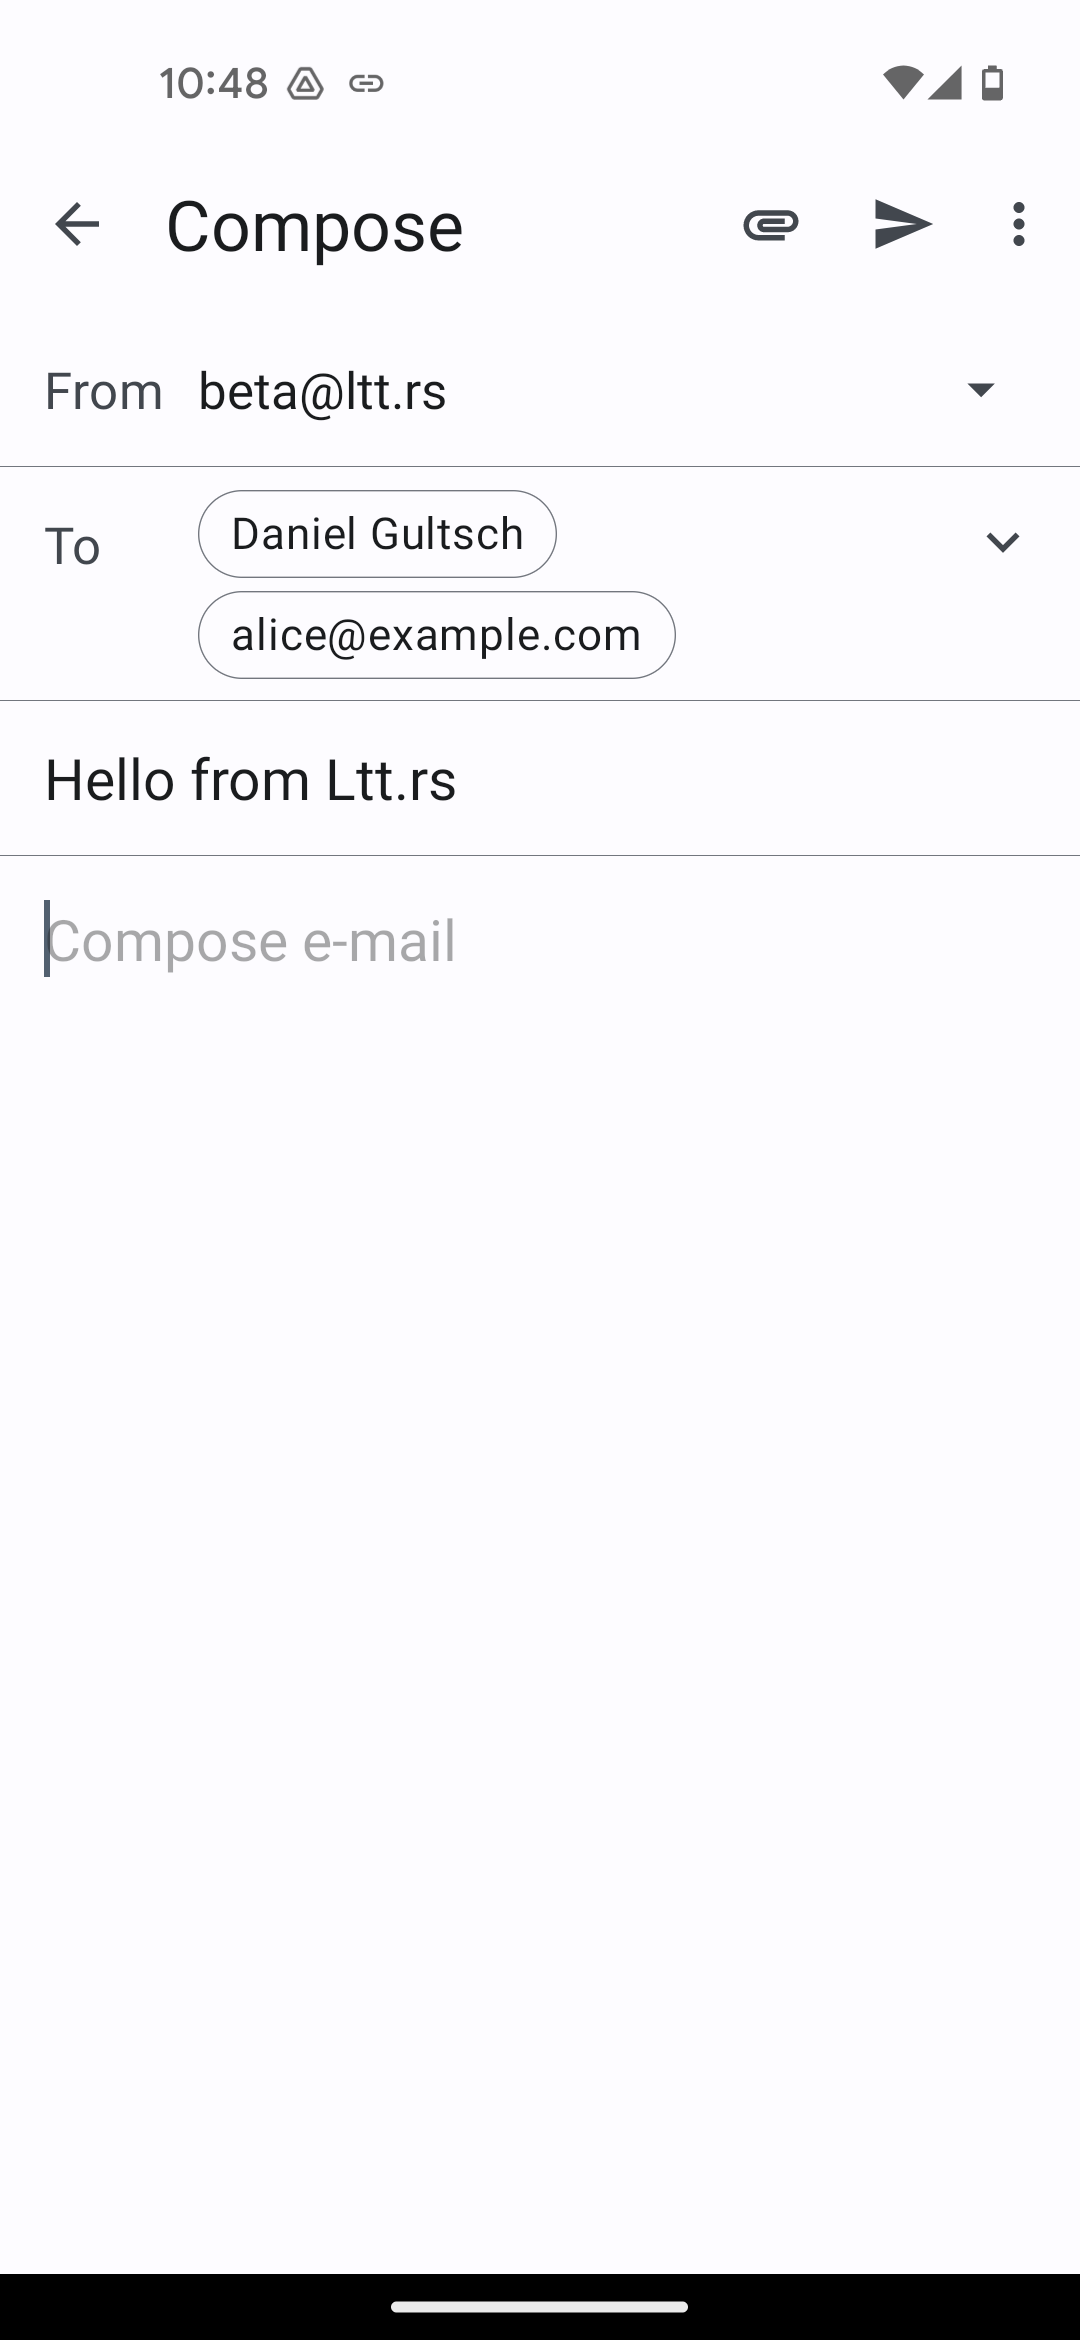
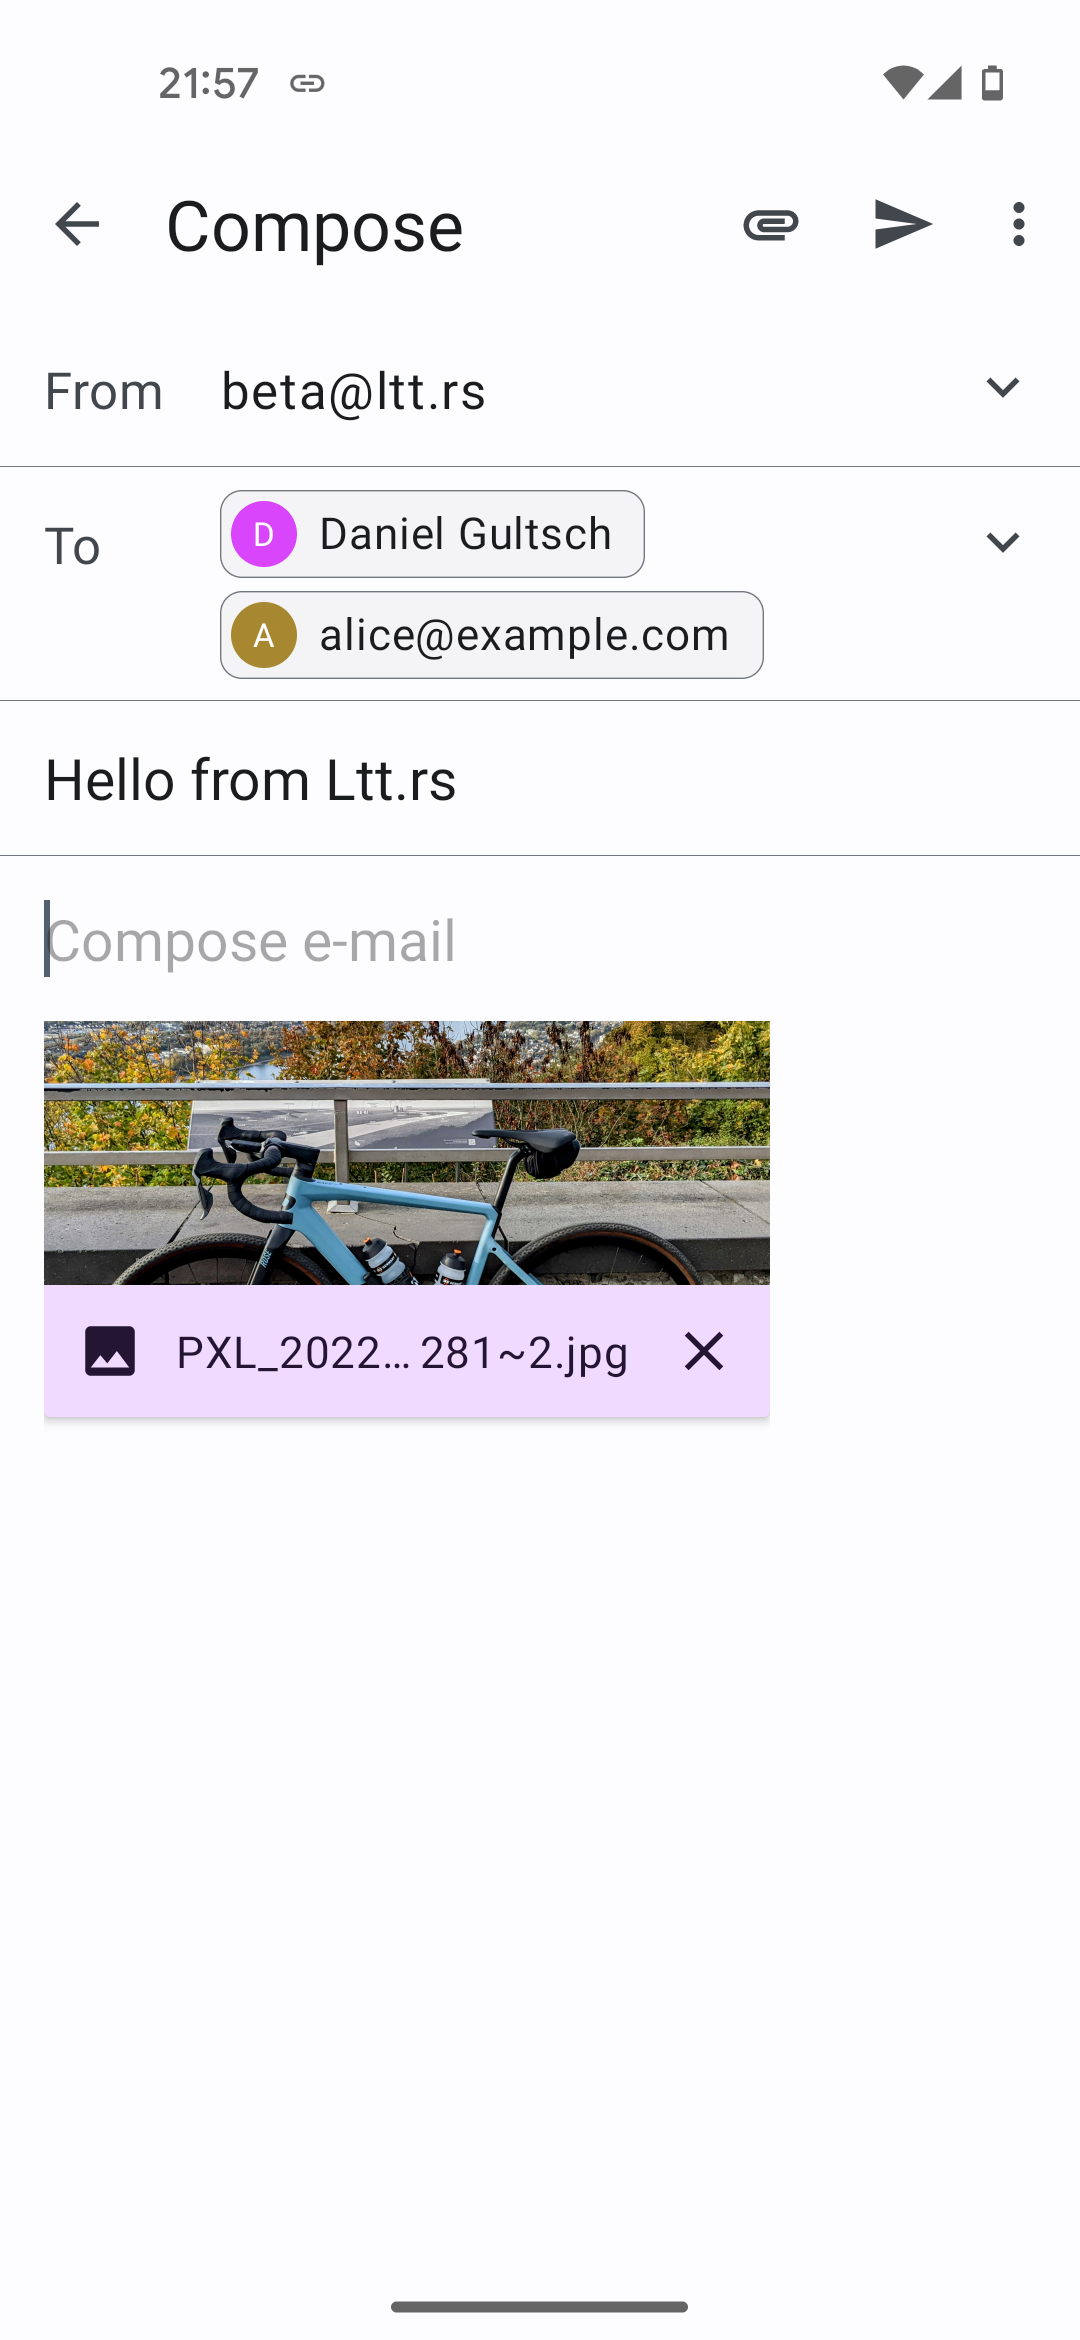
modernize compose activity

diff --git a/app/src/main/java/rs/ltt/android/ui/AvatarDrawable.java b/app/src/main/java/rs/ltt/android/ui/AvatarDrawable.java
@@ -30,6 +30,7 @@ import java.util.regex.Pattern;
 import rs.ltt.android.R;
 import rs.ltt.android.entity.From;
 import rs.ltt.android.util.ConsistentColorGeneration;
+import rs.ltt.jmap.common.entity.EmailAddress;
 
 public class AvatarDrawable extends ColorDrawable {
 
@@ -42,16 +43,9 @@ public class AvatarDrawable extends ColorDrawable {
     private final int intrinsicHeight;
     private final int intrinsicWidth;
 
-    public AvatarDrawable(final Context context, final From from) {
+    private AvatarDrawable(final Context context, final String email, final String name) {
         this.context = context;
-        final String name;
-        if (from instanceof From.Named) {
-            name = ((From.Named) from).getName();
-            this.key = ((From.Named) from).getEmail();
-        } else {
-            name = null;
-            this.key = null;
-        }
+        this.key = email;
         final Matcher matcher = LETTER_PATTERN.matcher(Strings.nullToEmpty(name));
         this.letter = matcher.find() ? matcher.group().toUpperCase(Locale.ROOT) : null;
         final int avatarDrawableSize =
@@ -83,23 +77,23 @@ public class AvatarDrawable extends ColorDrawable {
 
     @Override
     public void draw(final Canvas canvas) {
+        final Rect bounds = getBounds();
         final Paint textPaint = getTextPaint(context);
-        final float midX = getBounds().width() / 2.0f;
-        final float midY = getBounds().height() / 2.0f;
+        final float midX = bounds.width() / 2.0f;
+        final float midY = bounds.height() / 2.0f;
         final float radius = Math.min(getBounds().width(), getBounds().height()) / 2.0f;
         textPaint.setTextSize(radius);
-        final Rect r = new Rect();
-        canvas.getClipBounds(r);
-        final int cHeight = r.height();
-        final int cWidth = r.width();
+        final int cHeight = bounds.height();
+        final int cWidth = bounds.width();
         canvas.drawCircle(midX, midY, radius, getPaint(this.context, this.key));
         if (letter == null) {
             return;
         }
         textPaint.setTextAlign(Paint.Align.LEFT);
-        textPaint.getTextBounds(letter, 0, letter.length(), r);
-        float x = cWidth / 2f - r.width() / 2f - r.left;
-        float y = cHeight / 2f + r.height() / 2f - r.bottom;
+        final Rect textBounds = new Rect();
+        textPaint.getTextBounds(letter, 0, letter.length(), textBounds);
+        float x = cWidth / 2f - textBounds.width() / 2f - textBounds.left;
+        float y = cHeight / 2f + textBounds.height() / 2f - textBounds.bottom;
         canvas.drawText(letter, x, y, textPaint);
     }
 
@@ -121,5 +115,23 @@ public class AvatarDrawable extends ColorDrawable {
         this.setBounds(0, 0, canvas.getWidth(), canvas.getHeight());
         this.draw(canvas);
         return bitmap;
+    }
+
+    public static AvatarDrawable of(final Context context, final From from) {
+        if (from instanceof From.Named named) {
+            return new AvatarDrawable(context, named.getEmail(), named.getName());
+        } else {
+            return new AvatarDrawable(context, null, null);
+        }
+    }
+
+    public static AvatarDrawable of(final Context context, final EmailAddress emailAddress) {
+        final String name;
+        if (Strings.isNullOrEmpty(emailAddress.getName())) {
+            name = emailAddress.getEmail();
+        } else {
+            name = emailAddress.getName();
+        }
+        return new AvatarDrawable(context, emailAddress.getEmail(), name);
     }
 }

diff --git a/app/src/main/java/rs/ltt/android/ui/BindingAdapters.java b/app/src/main/java/rs/ltt/android/ui/BindingAdapters.java
@@ -27,17 +27,16 @@ import android.text.style.ImageSpan;
 import android.text.style.StyleSpan;
 import android.view.KeyEvent;
 import android.view.View;
-import android.widget.ArrayAdapter;
 import android.widget.CompoundButton;
 import android.widget.ImageView;
 import android.widget.TextView;
 import androidx.annotation.DrawableRes;
 import androidx.annotation.NonNull;
-import androidx.appcompat.widget.AppCompatSpinner;
 import androidx.core.widget.ImageViewCompat;
 import androidx.databinding.BindingAdapter;
 import androidx.lifecycle.LiveData;
 import com.google.android.material.color.MaterialColors;
+import com.google.android.material.textfield.MaterialAutoCompleteTextView;
 import com.google.android.material.textfield.TextInputEditText;
 import com.google.android.material.textfield.TextInputLayout;
 import com.google.common.base.Strings;
@@ -168,7 +167,7 @@ public class BindingAdapters {
             imageView.setImageResource(R.drawable.ic_selected_24dp);
             return;
         }
-        imageView.setImageDrawable(new AvatarDrawable(imageView.getContext(), from));
+        imageView.setImageDrawable(AvatarDrawable.of(imageView.getContext(), from));
     }
 
     @BindingAdapter("android:text")
@@ -421,7 +420,8 @@ public class BindingAdapters {
 
     @BindingAdapter("identities")
     public static void setIdentities(
-            final AppCompatSpinner spinner, final List<IdentityWithNameAndEmail> identities) {
+            final MaterialAutoCompleteTextView spinner,
+            final List<IdentityWithNameAndEmail> identities) {
         final List<String> representations;
         if (identities == null) {
             representations = Collections.emptyList();
@@ -431,13 +431,7 @@ public class BindingAdapters {
                             identities,
                             input -> EmailAddressUtil.toString(input.getEmailAddress()));
         }
-        final ArrayAdapter<String> adapter =
-                new ArrayAdapter<>(
-                        spinner.getContext(),
-                        android.R.layout.simple_spinner_item,
-                        representations);
-        adapter.setDropDownViewResource(R.layout.item_simple_spinner_dropdown);
-        spinner.setAdapter(adapter);
+        spinner.setSimpleItems(representations.toArray(new String[0]));
     }
 
     @BindingAdapter("android:src")

diff --git a/app/src/main/java/rs/ltt/android/ui/activity/ComposeActivity.java b/app/src/main/java/rs/ltt/android/ui/activity/ComposeActivity.java
@@ -59,11 +59,13 @@ import rs.ltt.android.ui.model.ComposeViewModel;
 import rs.ltt.android.ui.model.ComposeViewModel.EncryptionOptions;
 import rs.ltt.android.ui.model.ComposeViewModel.UserEncryptionChoice;
 import rs.ltt.android.ui.preview.AttachmentPreview;
+import rs.ltt.android.util.CharSequences;
 import rs.ltt.android.util.Event;
 import rs.ltt.android.util.MediaTypes;
 import rs.ltt.android.util.ToolTips;
 import rs.ltt.autocrypt.client.Decision;
 import rs.ltt.jmap.common.entity.Attachment;
+import rs.ltt.jmap.mua.util.EmailAddressUtil;
 import rs.ltt.jmap.mua.util.MailToUri;
 
 // TODO handle save instance state
@@ -160,6 +162,26 @@ public class ComposeActivity extends AppCompatActivity {
 
         binding.setComposeViewModel(composeViewModel);
         binding.setLifecycleOwner(this);
+
+        composeViewModel
+                .getIdentities()
+                .observe(
+                        this,
+                        identities -> {
+                            final var position = composeViewModel.getSelectedIdentityPosition();
+                            if (identities == null
+                                    || position == null
+                                    || position > identities.size()) {
+                                binding.from.setText(CharSequences.EMPTY_STRING);
+                            } else {
+                                binding.from.setText(
+                                        EmailAddressUtil.toString(
+                                                identities.get(position).getEmailAddress()));
+                            }
+                        });
+        binding.from.setOnItemClickListener(
+                (parent, view, position, id) ->
+                        composeViewModel.setSelectedIdentityPosition(position));
 
         binding.to.addTextChangedListener(new ChipTextWatcher(binding.to));
         binding.to.setOnFocusChangeListener(this::focusOnRecipientFieldChanged);

diff --git a/app/src/main/java/rs/ltt/android/ui/model/ComposeViewModel.java b/app/src/main/java/rs/ltt/android/ui/model/ComposeViewModel.java
@@ -91,7 +91,7 @@ public class ComposeViewModel extends AbstractAttachmentViewModel {
                                 }
                             });
 
-    private final MutableLiveData<Integer> selectedIdentityPosition = new MutableLiveData<>();
+    private final MutableLiveData<Integer> selectedIdentityPosition = new MutableLiveData<>(0);
     private final MutableLiveData<Boolean> extendedAddresses = new MutableLiveData<>();
     private final MutableLiveData<String> to = new MutableLiveData<>();
     private final MutableLiveData<String> cc = new MutableLiveData<>();
@@ -244,8 +244,8 @@ public class ComposeViewModel extends AbstractAttachmentViewModel {
         return this.identities;
     }
 
-    public MutableLiveData<Integer> getSelectedIdentityPosition() {
-        return this.selectedIdentityPosition;
+    public Integer getSelectedIdentityPosition() {
+        return this.selectedIdentityPosition.getValue();
     }
 
     public LiveData<EncryptionOptions> getEncryptionOptions() {
@@ -632,6 +632,10 @@ public class ComposeViewModel extends AbstractAttachmentViewModel {
         final EmailWithReferences email = getEmail();
         final String emailId = email == null ? null : email.getId();
         open(emailId, attachment);
+    }
+
+    public void setSelectedIdentityPosition(int position) {
+        this.selectedIdentityPosition.postValue(position);
     }
 
     public static class Parameter {

diff --git a/app/src/main/java/rs/ltt/android/ui/ChipDrawableSpan.java b/app/src/main/java/rs/ltt/android/ui/ChipDrawableSpan.java
@@ -67,12 +67,18 @@ public class ChipDrawableSpan extends ImageSpan implements NoCopySpan {
             if (EmailAddressUtil.isValid(token.getEmailAddress())) {
                 chip.setChipBackgroundColor(
                         getBackgroundColor(
-                                context, com.google.android.material.R.attr.colorSurface));
+                                context,
+                                com.google.android.material.R.attr.colorSurfaceContainerLow));
             } else {
                 chip.setChipBackgroundColor(
-                        getBackgroundColor(context, R.attr.colorSurfaceWarning));
+                        MaterialColors.getColorStateListOrNull(
+                                context, com.google.android.material.R.attr.colorErrorContainer));
+                chip.setTextColor(
+                        MaterialColors.getColorStateListOrNull(
+                                context, com.google.android.material.R.attr.colorOnErrorContainer));
             }
             final EmailAddress emailAddress = token.getEmailAddress();
+            chip.setChipIcon(AvatarDrawable.of(context, emailAddress));
             if (TextUtils.isEmpty(emailAddress.getName())) {
                 chip.setText(emailAddress.getEmail());
             } else {

diff --git a/app/src/main/java/rs/ltt/android/ui/notification/EmailNotification.java b/app/src/main/java/rs/ltt/android/ui/notification/EmailNotification.java
@@ -233,7 +233,7 @@ public class EmailNotification extends AbstractNotification {
 
     private Notification get(final EmailWithBodiesAndSubject email) {
         final From from = email.getFirstFrom();
-        final AvatarDrawable avatar = new AvatarDrawable(context, from);
+        final AvatarDrawable avatar = AvatarDrawable.of(context, from);
         final String subject = getSubject(email);
         final Preview preview = email.getPreview();
         final String bigText;

diff --git a/TODO.md b/TODO.md
@@ -1,3 +1,2 @@
 * Material 3 Redesign
-  * Fix identity selection in Compose
   * change all ImageButton to MaterialButtons
